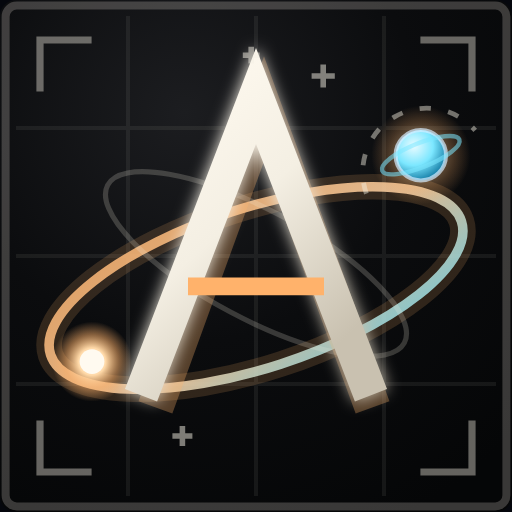
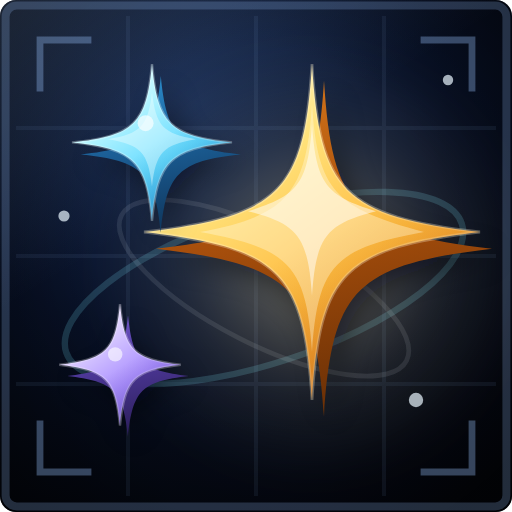
style: sparkle mark and Syne OG wordmark
- Replace the icon with a deep-blue tile and three glossy four-point sparkles
  in gold, cyan and violet, with extruded side faces, soft shadows, rim light
  and a faint orbit. It is quieter than the old monogram and reads at 16px.
- Use the APSIS/APSIS solid and outline wordmark in Syne 800 on the OG card,
  with the sparkle mark, matching the Overview hero.
- Regenerate the icon set, OG card and all six screenshots; update the design
  notes and social description.

diff --git a/console/index.html b/console/index.html
@@ -23,7 +23,7 @@
     <meta property="og:image" content="https://meruyert5.github.io/apsis/og.png" />
     <meta property="og:image:width" content="1200" />
     <meta property="og:image:height" content="630" />
-    <meta property="og:image:alt" content="Apsis: a bone A with a sun at the focus and a ringed planet at the apsis, inside an amber-and-cyan orbit." />
+    <meta property="og:image:alt" content="Apsis: three glossy four-point sparkles in gold, cyan and violet on a deep-blue tile, beside the APSIS wordmark." />
     <meta name="twitter:card" content="summary_large_image" />
     <meta name="twitter:image" content="https://meruyert5.github.io/apsis/og.png" />
     <link rel="icon" href="./favicon.svg" type="image/svg+xml" />

diff --git a/CHANGELOG.md b/CHANGELOG.md
@@ -18,10 +18,11 @@
 - Texture and chrome: SVG grain, 64px HUD grid, CRT scanlines, ambient edge glow,
   warm glass topbar, cream primary button, bone hairline panels. Interactive
   states now follow the view accent instead of the old ultramarine.
-- New mark in bone, amber and cyan: a Syne A with an amber sun at the focus and
-  a ringed cyan planet at the apsis, tied by a dashed arc. Matching 512/180
-  icons and a rebuilt OG card. Sora, IBM Plex Sans and Instrument Serif are
-  removed; the payload is Syne, Space Grotesk and IBM Plex Mono.
+- New mark in the Overview palette: three glossy four-point sparkles in gold,
+  cyan and violet on a deep-blue HUD tile, with a faint orbit and star field.
+  The OG card pairs it with the solid/outline APSIS wordmark in Syne. Matching
+  512/180 icons. Sora, IBM Plex Sans and Instrument Serif are removed; the
+  payload is Syne, Space Grotesk and IBM Plex Mono.
 - The wireframe pass is bone and periwinkle with a depth fog, larger nodes and
   accent selection rings; it stays a schematic, not a second planet scene.
 - Every figure has two instruments. A `Planets` / `Wire` switch replaces the old

diff --git a/docs/DESIGN.md b/docs/DESIGN.md
@@ -100,12 +100,13 @@ below 17px.
 
 ## Mark
 
-The mark is a sharp 2px tile: a bone HUD frame, a coordinate grid, two inclined
-orbits in amber and cyan, a bone Syne A, an amber sun at the focus and a ringed
-cyan planet at the apsis of the outer orbit, tied by a dashed apsis arc. The same
-silhouette is used for `favicon.svg`, the 512px and Apple touch PNGs, the 34px
-rail mark and the OG card, so the tab, the home screen and the console header
-read as one system.
+The mark is a sharp 2px deep-blue HUD tile with three glossy four-point sparkles
+in gold, cyan and violet, a faint orbit and a quiet star field. It is the Apsis
+idea at icon scale: the far point of the orbit, the spark that marks it, not a
+miniature dashboard. The wordmark itself is the Syne APSIS/APSIS display title
+from the hero, so the icon and the title share one family. The same sparkle tile
+is used for `favicon.svg`, the 512px and Apple touch PNGs, the 34px rail mark and
+the OG card.
 
 ## Motion
 

diff --git a/docs/design-agency.md b/docs/design-agency.md
@@ -411,6 +411,6 @@ Global:
 - Celestial bodies leave the panel: a cropped Canvas2D comet, ringed planet, star, galaxy, pulsar, nebula, binary or black hole sits at the page edge on every view. The figure panels keep the interactive version.
 - The identity graph becomes a full workbench: a 16-account strip, a 940x600 graph with 17px labels, accent arrows, pulsing halos and flowing active edges, and a 340px inspector. The graph scrolls at 720px on mobile rather than shrinking.
 - Texture: SVG grain, 64px HUD grid, CRT scanlines, ambient edge glow, warm glass topbar, cream primary button. Interactive states follow the view accent.
-- New bone/amber/cyan mark, icon set and OG card; the wireframe becomes bone and periwinkle with depth fog and accent selection rings.
+- New deep-blue sparkle mark (gold, cyan, violet) and a Syne APSIS/APSIS OG card; the wireframe becomes bone and periwinkle with depth fog and accent selection rings.
 
 
